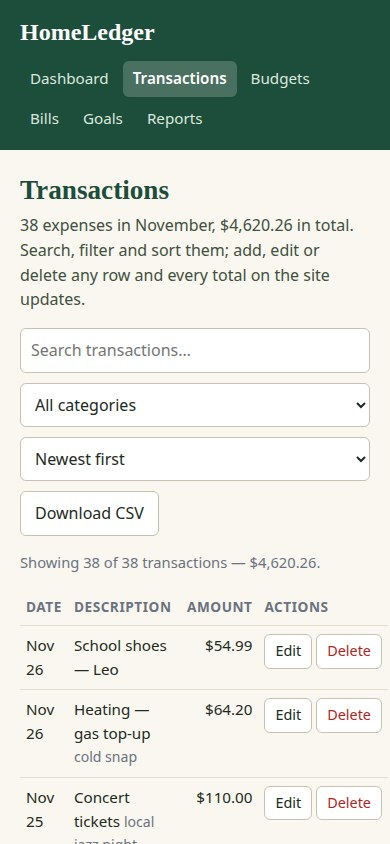
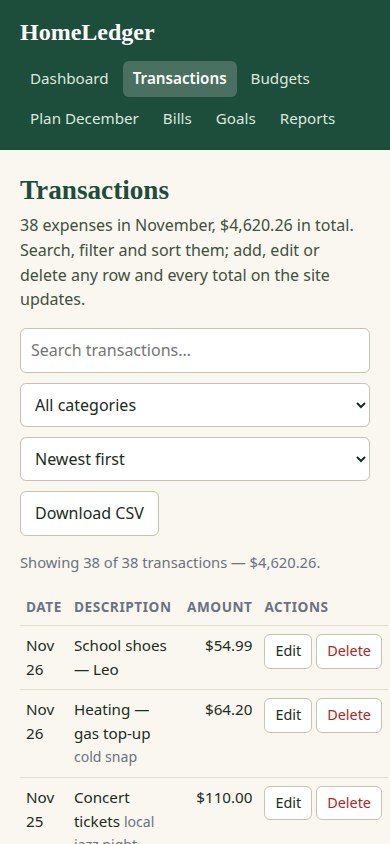
HomeLedger v3 — Plan December page, recurring bill tags, screenshot swap
Adds a seventh page, Plan December: per-category December budgets
starting from the November plan, live projected savings against the
same $6,850 of December income, a Copy November plan reset, and an
over-plan warning. Bills now tag the recurring ones (internet, phone,
gym, streaming) with a monthly recurring total of $189.98. The fourth
screenshot shows the new planning page instead of Reports. Same
household, same verified November figures.

Changed region(s): [[0.0923, 0.1232, 0.5231, 0.154], [0.7077, 0.1232, 0.8615, 0.154], [0.5538, 0.1232, 0.6462, 0.154]]

diff --git a/app/views.js b/app/views.js
@@ -1,4 +1,4 @@
-// HomeLedger v2 — the six pages. Every view is a function of the state:
+// HomeLedger v3 — the seven pages. Every view is a function of the state:
 // the same numbers appear on the dashboard, the budgets page and the
 // reports page because they are all computed in store.js from one seed.
 // User text is escaped before it is rendered.
@@ -10,11 +10,12 @@ import {
   overBudgetCount, billsDue, unpaidTotal, billStatus, dueNextWeek,
   goalRows, historyWithSaved, dailySpending, daysElapsed, monthDays,
   paceFraction, avgDailySpent, projectedMonthEnd, plannedSpending,
+  decemberSummary, monthlyRecurringTotal,
 } from './store.js';
 import { donut, legend, bars, dayBars } from './charts.js';
 
-function statCard(label, value, sub) {
-  return `<div class="stat"><span class="stat-label">${label}</span><strong class="stat-value">${value}</strong><span class="stat-sub">${sub}</span></div>`;
+function statCard(label, value, sub, valueId, subId) {
+  return `<div class="stat"><span class="stat-label">${label}</span><strong class="stat-value"${valueId ? ` id="${valueId}"` : ''}>${value}</strong><span class="stat-sub"${subId ? ` id="${subId}"` : ''}>${sub}</span></div>`;
 }
 
 function txRow(t, withActions) {
@@ -202,16 +203,17 @@ export function viewBills(state) {
   <section class="card">
     <h2>Needs attention — ${due.length} unpaid, ${money(unpaidTotal(state))}</h2>
     <p class="muted">Due in the next 7 days: <strong>${money(weekTotal)}</strong> (${week.length} bill${week.length === 1 ? '' : 's'}).</p>
+    <p class="muted">Recurring bills total <strong>${money(monthlyRecurringTotal(state))}</strong> a month — internet, phone, gym and streaming repeat unless cancelled.</p>
     ${due.length
       ? `<ul class="bill-list">${due.map((b) => {
           const st = billStatus(b);
-          return `<li><span>${esc(b.label)} — ${formatDate(b.day)}</span><span class="badge ${st.kind === 'overdue' ? 'badge-overdue' : 'badge-soon'}">${st.text}</span><strong>${money(b.amount)}</strong><button type="button" class="btn btn-small btn-primary" data-toggle-bill="${b.id}">Mark paid</button></li>`;
+          return `<li><span>${esc(b.label)} — ${formatDate(b.day)}</span>${b.recurring ? '<span class="badge badge-recurring">Recurring</span>' : ''}<span class="badge ${st.kind === 'overdue' ? 'badge-overdue' : 'badge-soon'}">${st.text}</span><strong>${money(b.amount)}</strong><button type="button" class="btn btn-small btn-primary" data-toggle-bill="${b.id}">Mark paid</button></li>`;
         }).join('')}</ul>`
       : '<p>All bills paid. Nothing outstanding.</p>'}
   </section>
   <section class="card">
     <h2>Paid — ${paid.length} bills</h2>
-    <ul class="bill-list">${paid.map((b) => `<li><span>${esc(b.label)} — ${formatDate(b.day)}</span><span class="badge badge-paid">Paid</span><strong>${money(b.amount)}</strong><button type="button" class="btn btn-small" data-toggle-bill="${b.id}">Undo</button></li>`).join('')}</ul>
+    <ul class="bill-list">${paid.map((b) => `<li><span>${esc(b.label)} — ${formatDate(b.day)}</span>${b.recurring ? '<span class="badge badge-recurring">Recurring</span>' : ''}<span class="badge badge-paid">Paid</span><strong>${money(b.amount)}</strong><button type="button" class="btn btn-small" data-toggle-bill="${b.id}">Undo</button></li>`).join('')}</ul>
   </section>
   <form id="bill-form" class="form-card">
     <h2>Add a bill</h2>
@@ -241,6 +243,40 @@ export function viewGoals(state) {
       </form>
     </section>`).join('')}
   </div>`;
+}
+
+export function planWarningHtml(summary) {
+  const overBy = summary.planned - summary.income;
+  return `<p><strong class="over-text">Over plan by ${money(overBy)}.</strong> The December plan spends more than the ${money(summary.income)} coming in, so the projected saving would be negative. Trim a category or two to get back under the income line.</p>`;
+}
+
+export function viewPlan(state) {
+  const summary = decemberSummary(state);
+  const novSaved = totalSaved(state);
+  const rows = CATEGORIES.map((c) => {
+    const novPlan = state.budgets[c.id] || 0;
+    const decPlan = state.december.plans[c.id] || 0;
+    return `<tr><td><span class="cat-dot" style="background:${c.color}"></span>${c.label}</td><td class="num">${money(novPlan)}</td><td><input type="number" class="plan-input" data-plan-category="${c.id}" min="0" step="1" value="${decPlan}" aria-label="December plan for ${c.label}"></td></tr>`;
+  }).join('');
+  return `
+  <h1>Plan December</h1>
+  <p class="lede">December starts from the November plan, with the same paydays — Maya's salary $3,900, Daniel's $2,750, and the $200 wiring job. Change any figure and the projected saving moves at once; the plan saves to your browser like the rest of the site.</p>
+  <section class="stats">
+    ${statCard('Expected income', money(summary.income), '3 payments in December')}
+    ${statCard('Planned spending', money(summary.planned), 'December plan so far', 'plan-planned')}
+    ${statCard('Projected savings', money(summary.projected), pct(summary.projected / summary.income) + ' of income', 'plan-projected', 'plan-projected-sub')}
+    ${statCard('November saved', money(novSaved), 'the plan to beat')}
+  </section>
+  <div id="plan-warning" class="card pace-strip"${summary.over ? '' : ' style="display:none"'}>${summary.over ? planWarningHtml(summary) : ''}</div>
+  <p><button type="button" class="btn" data-copy-november>Copy November plan</button> <span class="muted">Resets every December figure to the November plan.</span></p>
+  <section class="card">
+    <h2>December budget by category</h2>
+    <table class="tx plan-table">
+      <thead><tr><th>Category</th><th class="num">November plan</th><th class="num">December plan</th></tr></thead>
+      <tbody>${rows}</tbody>
+    </table>
+    <p class="muted">The November plan is shown for comparison; only the December column is editable. Savings is not a line here — it is whatever the plan leaves over.</p>
+  </section>`;
 }
 
 export function viewReports(state) {

diff --git a/app/store.js b/app/store.js
@@ -1,10 +1,10 @@
-// HomeLedger v2 — state and arithmetic. The seed lives in data.js; this
+// HomeLedger v3 — state and arithmetic. The seed lives in data.js; this
 // module owns the editable copy (localStorage), every total the site
 // shows, and the v2 derived figures: month pace, month-end projection,
 // per-goal monthly need, and bill countdowns. All of it is pure
 // arithmetic on the seed — change a transaction and every page agrees.
 
-import { HOUSEHOLD, INCOME, CATEGORIES, BUDGETS, TRANSACTIONS, BILLS, GOALS, HISTORY } from './data.js';
+import { HOUSEHOLD, INCOME, DECEMBER_INCOME, CATEGORIES, BUDGETS, TRANSACTIONS, BILLS, GOALS, HISTORY } from './data.js';
 
 const KEY = 'homeledger-v2';
 
@@ -18,9 +18,18 @@ export function seedState() {
     budgets: clone(BUDGETS),
     bills: clone(BILLS),
     goals: clone(GOALS),
+    december: { plans: seedDecemberPlans() },
     nextTxId: 39,
     nextBillId: 11,
   };
+}
+
+// The December plan starts as a copy of the November spending plan
+// (savings is not a spending line — it is what the plan leaves over).
+export function seedDecemberPlans() {
+  const plans = {};
+  for (const c of CATEGORIES) plans[c.id] = BUDGETS[c.id] || 0;
+  return plans;
 }
 
 export function loadState() {
@@ -31,6 +40,9 @@ export function loadState() {
     if (!Array.isArray(s.transactions) || !s.budgets || !Array.isArray(s.bills) || !Array.isArray(s.goals)) {
       return seedState();
     }
+    // States saved before v3 have no December plan — seed one instead of
+    // dropping the household's November edits.
+    if (!s.december || !s.december.plans) s.december = { plans: seedDecemberPlans() };
     return s;
   } catch {
     return seedState();
@@ -201,6 +213,43 @@ export function billStatus(bill) {
 // Unpaid bills falling due in the next 7 days (today included).
 export function dueNextWeek(state) {
   return billsDue(state).filter((b) => daysToBill(b) >= 0 && daysToBill(b) <= 7);
+}
+
+// --- December plan (v3) -------------------------------------------------
+// December takes the same paydays as November. The plan is a per-category
+// spending budget for December; what is left over is the projected saving.
+
+export function decemberIncome() {
+  return DECEMBER_INCOME.reduce((s, i) => s + i.amount, 0);
+}
+
+export function decemberPlanned(state) {
+  return CATEGORIES.reduce((s, c) => s + (state.december.plans[c.id] || 0), 0);
+}
+
+export function decemberProjected(state) {
+  return decemberIncome() - decemberPlanned(state);
+}
+
+export function decemberSummary(state) {
+  const income = decemberIncome();
+  const planned = decemberPlanned(state);
+  const projected = income - planned;
+  return { income, planned, projected, over: planned > income };
+}
+
+export function setDecemberPlan(state, id, amount) {
+  if (state.december.plans[id] === undefined) return;
+  state.december.plans[id] = Math.round(amount * 100) / 100;
+}
+
+export function copyNovemberPlan(state) {
+  state.december.plans = seedDecemberPlans();
+}
+
+// Bills that repeat every month (internet, phone, gym, streaming).
+export function monthlyRecurringTotal(state) {
+  return state.bills.filter((b) => b.recurring).reduce((s, b) => s + b.amount, 0);
 }
 
 // --- goals (v2) -----------------------------------------------------------

diff --git a/app/app.js b/app/app.js
@@ -1,14 +1,15 @@
-// HomeLedger v2 — the shell: hash router plus one delegated listener for
+// HomeLedger v3 — the shell: hash router plus one delegated listener for
 // every control on the site. Each change saves the state and re-renders
 // the current page, so the numbers on every page always agree.
 
-import { loadState, saveState, resetState, addTransaction, updateTransaction, deleteTransaction, setBudget, toggleBill, addBill, addToGoal, transactionsCsv } from './store.js';
-import { viewDashboard, viewTransactions, viewBudgets, viewBills, viewGoals, viewReports } from './views.js';
+import { loadState, saveState, resetState, addTransaction, updateTransaction, deleteTransaction, setBudget, toggleBill, addBill, addToGoal, transactionsCsv, setDecemberPlan, copyNovemberPlan, decemberSummary, money, pct } from './store.js';
+import { viewDashboard, viewTransactions, viewBudgets, viewBills, viewGoals, viewReports, viewPlan, planWarningHtml } from './views.js';
 
 const ROUTES = [
   { hash: '#/', label: 'Dashboard', view: viewDashboard },
   { hash: '#/transactions', label: 'Transactions', view: viewTransactions },
   { hash: '#/budgets', label: 'Budgets', view: viewBudgets },
+  { hash: '#/plan', label: 'Plan December', view: viewPlan },
   { hash: '#/bills', label: 'Bills', view: viewBills },
   { hash: '#/goals', label: 'Goals', view: viewGoals },
   { hash: '#/reports', label: 'Reports', view: viewReports },
@@ -88,6 +89,11 @@ document.addEventListener('click', (e) => {
     rerender();
     return;
   }
+  if (t.closest('[data-copy-november]')) {
+    copyNovemberPlan(state);
+    rerender();
+    return;
+  }
   if (t.closest('[data-toggle-bill]')) {
     toggleBill(state, Number(t.closest('[data-toggle-bill]').dataset.toggleBill));
     rerender();
@@ -112,6 +118,33 @@ document.addEventListener('click', (e) => {
 document.addEventListener('input', (e) => {
   const t = e.target;
   if (!(t instanceof HTMLElement)) return;
+  if (t.classList && t.classList.contains('plan-input')) {
+    // Live December plan: save the figure and move the projected saving
+    // without re-rendering, so the input keeps focus while typing.
+    const v = parseFloat(t.value);
+    if (!Number.isNaN(v) && v >= 0) {
+      setDecemberPlan(state, t.dataset.planCategory, v);
+      saveState(state);
+      const summary = decemberSummary(state);
+      const planned = document.getElementById('plan-planned');
+      if (planned) planned.textContent = money(summary.planned);
+      const projected = document.getElementById('plan-projected');
+      if (projected) projected.textContent = money(summary.projected);
+      const sub = document.getElementById('plan-projected-sub');
+      if (sub) sub.textContent = pct(summary.projected / summary.income) + ' of income';
+      const warn = document.getElementById('plan-warning');
+      if (warn) {
+        if (summary.over) {
+          warn.innerHTML = planWarningHtml(summary);
+          warn.style.display = '';
+        } else {
+          warn.innerHTML = '';
+          warn.style.display = 'none';
+        }
+      }
+    }
+    return;
+  }
   if (t.id === 'tx-search') {
     ui.txSearch = t.value;
     // Re-rendering on every keystroke would drop focus, so only the table

diff --git a/app/data.js b/app/data.js
@@ -1,4 +1,4 @@
-// HomeLedger v2 — seed data for the Alvarez household, November 2026.
+// HomeLedger v3 — seed data for the Alvarez household, November 2026.
 // A fictional family (Maya & Daniel, Sofia 9, Leo 6) keeping its monthly
 // budget. Every figure below is the seed the whole site computes from:
 // edit a transaction, a budget or a bill and every total on every page
@@ -16,6 +16,14 @@ export const HOUSEHOLD = {
 };
 
 export const INCOME = [
+  { label: "Maya's salary", day: 1, amount: 3900.0 },
+  { label: "Daniel's salary", day: 1, amount: 2750.0 },
+  { label: 'Daniel — weekend wiring job', day: 14, amount: 200.0 },
+];
+
+// December uses the same paydays as November: the plan page starts
+// from the same $6,850 coming in.
+export const DECEMBER_INCOME = [
   { label: "Maya's salary", day: 1, amount: 3900.0 },
   { label: "Daniel's salary", day: 1, amount: 2750.0 },
   { label: 'Daniel — weekend wiring job', day: 14, amount: 200.0 },
@@ -95,12 +103,12 @@ export const BILLS = [
   { id: 1, label: 'Rent', day: 1, amount: 1850.0, paid: true },
   { id: 2, label: 'School lunch plan', day: 2, amount: 45.0, paid: true },
   { id: 3, label: 'Electric — City Power', day: 5, amount: 96.4, paid: true },
-  { id: 4, label: 'Internet — Fibre 200 Mbps', day: 6, amount: 59.99, paid: true },
+  { id: 4, label: 'Internet — Fibre 200 Mbps', day: 6, amount: 59.99, paid: true, recurring: true },
   { id: 5, label: 'Car insurance', day: 6, amount: 132.0, paid: true },
   { id: 6, label: 'Water — City Water', day: 12, amount: 42.1, paid: true },
-  { id: 7, label: 'Streaming — films & series', day: 13, amount: 15.99, paid: true },
-  { id: 8, label: 'Phone plan — family', day: 18, amount: 85.0, paid: true },
-  { id: 9, label: 'Gym membership', day: 20, amount: 29.0, paid: false },
+  { id: 7, label: 'Streaming — films & series', day: 13, amount: 15.99, paid: true, recurring: true },
+  { id: 8, label: 'Phone plan — family', day: 18, amount: 85.0, paid: true, recurring: true },
+  { id: 9, label: 'Gym membership', day: 20, amount: 29.0, paid: false, recurring: true },
   { id: 10, label: 'Credit card', day: 27, amount: 412.0, paid: false },
 ];
 

diff --git a/app/style.css b/app/style.css
@@ -1,4 +1,4 @@
-/* HomeLedger v2 — deep green on cream paper, Georgia serif headings,
+/* HomeLedger v3 — deep green on cream paper, Georgia serif headings,
    system-ui body. One file, no network, no build step. */
 
 :root {
@@ -130,6 +130,7 @@ input:focus, select:focus { outline: 2px solid var(--green); outline-offset: 1px
 
 .badge { display: inline-block; font-size: 0.82rem; font-weight: 600; padding: 3px 9px; border-radius: 20px; white-space: nowrap; }
 .badge-paid { background: var(--green-soft); color: var(--green); }
+.badge-recurring { background: #e3eaf6; color: #1565c0; }
 .badge-soon { background: var(--amber-soft); color: #92580a; }
 .badge-overdue { background: var(--red-soft); color: var(--red); }
 
@@ -144,6 +145,10 @@ input:focus, select:focus { outline: 2px solid var(--green); outline-offset: 1px
 
 .goal-mini { margin: 12px 0; }
 .goal-head { margin-bottom: 2px; }
+
+/* Plan December (v3): the plan column is an input, kept narrow so the
+   table reads at contact-sheet size. */
+.plan-table input.plan-input { width: 150px; text-align: right; font-variant-numeric: tabular-nums; }
 
 .insights { margin: 0; padding-left: 20px; }
 .insights li { margin: 8px 0; }

diff --git a/app/index.html b/app/index.html
@@ -4,7 +4,7 @@
 <meta charset="utf-8">
 <meta name="viewport" content="width=device-width, initial-scale=1">
 <title>HomeLedger — Alvarez household budget, November 2026</title>
-<meta name="description" content="HomeLedger: the Alvarez household's working budget for November 2026 — income, spending, budgets, bills, savings goals and reports.">
+<meta name="description" content="HomeLedger: the Alvarez household's working budget for November 2026 — income, spending, budgets, bills, savings goals, reports, and a December plan.">
 <link rel="icon" href="data:,">
 <link rel="stylesheet" href="style.css">
 </head>

diff --git a/README.md b/README.md
@@ -24,7 +24,8 @@ page recomputes.
 - **Dashboard** — income, spent, saved and left-to-spend cards; a month-pace strip (26 of 30 days gone, spending projected to $5,331.07 by month-end); spending donut with legend; budget watch; latest transactions; unpaid bills; closest goals.
 - **Transactions** — search, filter by category, sort by date or amount; add, edit and delete transactions; download the month as CSV. All totals update live.
 - **Budgets** — one card per category with a progress bar, over/under line and a pace check (spending so far vs the share of the month gone); plans are editable inline, including the savings plan.
-- **Bills** — countdowns from today ("overdue by 6 days", "due tomorrow"), mark paid / undo, add-a-bill form, and the total due in the next 7 days.
+- **Bills** — countdowns from today ("overdue by 6 days", "due tomorrow"), mark paid / undo, add-a-bill form, and the total due in the next 7 days. Recurring bills (internet, phone, gym, streaming) carry a Recurring tag, with a monthly recurring total of $189.98.
+- **Plan December** — a forward-looking page: per-category December budget inputs starting from the November plan, live projected savings against the same $6,850 of December income, a "Copy November plan" button, and an over-plan warning when the plan spends more than the income.
 - **Goals** — each goal shows its target date, the monthly amount still needed, and whether the household's usual saving pace ($2,305 a month) covers it; add funds to any goal.
 - **Reports** — income vs spending for Jun–Nov 2026, daily spending bars for November, categories ranked by spending, and insights computed from the data (biggest costs, pace, projected month-end).
 
@@ -47,6 +48,18 @@ sorting and CSV export, a pace check on every budget, goal tracking
 against target dates and the household's usual saving pace, daily
 spending bars and a month-end projection on Reports, and bill countdowns.
 Nothing is a placeholder — every button on every page works.
+
+## v3 — what changed
+
+v2 climbed to 514 of 5,723 in blind round 2. v3 keeps the same household
+and the same verified figures, and adds the one thing v2 lacked: a way to
+look forward. A seventh page, **Plan December**, starts from the November
+plan with the same $6,850 of December income and shows the projected
+saving live as any figure changes, with an over-plan warning and a
+"Copy November plan" reset. Bills now tag the recurring ones (internet,
+phone, gym, streaming) with a monthly recurring total, and the fourth
+screenshot shows the new planning page instead of Reports. Nothing is a
+placeholder — every button on every page works.
 
 ## Entered on make.fun
 
